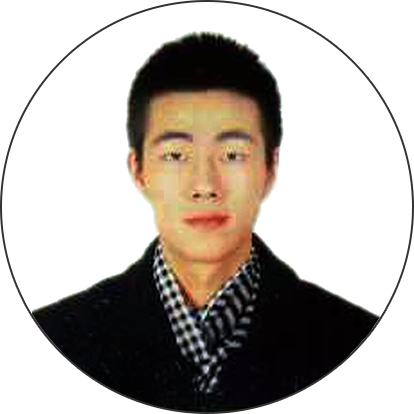
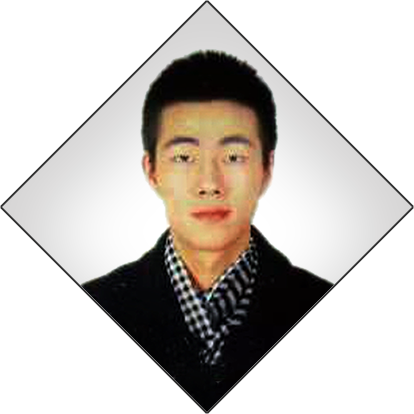
修改了 Grid 的背景；修改了隐藏模块的展示区

diff --git a/diamond/src/view/Resume.vue b/diamond/src/view/Resume.vue
@@ -17,8 +17,9 @@
           <li>兼通设计</li>
           <li>×</li>
           <li>紧抓基础</li>
-          <li>追求卓越，通过艺术性的角度思考代码</li>
+          <li>创新型前端工程师，可兼任简单的产品、设计、后端业务</li>
         </ul>
+        <div class="resume-content-1-hint" :class="startScreenHint">向下翻页，查看更多...</div>
       </article>
       <article class="resume-content-intersection"></article>
       <article class="resume-content-2">
@@ -146,21 +147,53 @@
       </article>
       <article class="resume-content-intersection"></article>
       <article class="resume-content-6">
-        <div></div>
-        <ul>
-          <li>张宇 Ary</li>
-          <li>中南大学 / 城市规划 / 2015</li>
-          <li>建筑设计经验两年 / 前端新人 / 基础牢固 / 创新</li>
-        </ul>
+        <div class="resume-content-6-presentation">
+          <div class="resume-content-6-detail">
+            <div class="resume-content-6-background"></div>
+            <div class="resume-content-6-text"></div>
+          </div>
+          <div class="resume-content-6-detail">
+            <div class="resume-content-6-background"></div>
+            <div class="resume-content-6-text"></div>
+          </div>
+          <div class="resume-content-6-detail">
+            <div class="resume-content-6-background"></div>
+            <div class="resume-content-6-text"></div>
+          </div>
+          <div class="resume-content-6-detail">
+            <div class="resume-content-6-background"></div>
+            <div class="resume-content-6-text"></div>
+          </div>
+          <div class="resume-content-6-detail">
+            <div class="resume-content-6-background"></div>
+            <div class="resume-content-6-text"></div>
+          </div>
+          <div class="resume-content-6-detail">
+            <div class="resume-content-6-background"></div>
+            <div class="resume-content-6-text"></div>
+          </div>
+          <div class="resume-content-6-detail">
+            <div class="resume-content-6-background"></div>
+            <div class="resume-content-6-text"></div>
+          </div>
+        </div>
+        <div class="resume-content-6-personal" :class="personalAnimationStart">
+          <div class="resume-content-image"></div>
+          <ul>
+            <li>张宇 Ary</li>
+            <li>中南大学 / 本科 / 城市规划 / 2015年毕业</li>
+            <li>两年设计行业经验 / 前端新人 / 熬夜达人 / 追求像素级精准</li>
+          </ul>
+        </div>
       </article>
       <article class="resume-content-intersection"></article>
       <article class="resume-content-7">
-        <div></div>
+        <div class="resume-content-image"></div>
         <ul>
           <li>电子邮箱：ary@arylab.me</li>
           <li>联系电话：+86 13187314217</li>
-          <li @click="$router.push('/article/blog')" @touchend="touchRedirectUrl('https://arylab.me/article/blog', $event)" title="点击进入我的技术博客 https://arylab.me/article/blog">技术博客：https://arylab.me/article/blog</li>
-          <li @click="redirectUrl('https://github.com/Winterwrath/Diamond')" @touchend="touchRedirectUrl('https://github.com/Winterwrath/Diamond', $event)" title="点击查看本项目源码 https://github.com/Winterwrath/Diamond">项目源码：https://github.com/Winterwrath/Diamond</li>
+          <li @click="$router.push('/article/blog')" @touchend="touchRedirectUrl('https://arylab.me/article/blog', $event)" title="点击进入我的技术博客 https://arylab.me/article/blog">技术博客：<span>https://arylab.me/article/blog</span></li>
+          <li @click="$router.push('/')" @touchend="touchRedirectUrl('https://arylab.me', $event)" title="点击进入我的个人主页 https://arylab.me">个人主页：<span>https://arylab.me</span></li>
         </ul>
       </article>
     </div>
@@ -170,9 +203,9 @@
         <li></li>
         <li @click="$router.push('/')" title="点击进入我的个人主页 https://arylab.me"></li>
         <li></li>
-        <li @click="scrollCurrent = 1" @touchstart="scrollCurrent = 1">技术水平</li>
+        <li @click="scrollCurrent = 1" @touchstart="scrollCurrent = 1">技术能力</li>
         <li></li>
-        <li @click="scrollCurrent = 6" @touchstart="scrollCurrent = 6">个人资料</li>
+        <li @click="scrollCurrent = 6" @touchstart="scrollCurrent = 6">作品展示</li>
         <li></li>
         <li @click="scrollCurrent = 7" @touchstart="scrollCurrent = 7">联系方式</li>
         <li></li>
@@ -201,7 +234,9 @@ export default {
     return {
       scrollCurrent: 1,
       scrollTimer: 0,
-      ScreenY: 0
+      ScreenY: 0,
+      personalAnimationStart: '',
+      startScreenHint: ''
     }
   },
   computed: {
@@ -302,6 +337,16 @@ export default {
     touchRedirectUrl (url, e) {
       if (Math.abs(e.changedTouches[0].screenY - this.ScreenY) < 10) {
         window.location = url
+      }
+    }
+  },
+  watch: {
+    scrollCurrent (val, oldval) {
+      if (val === 6) {
+        this.personalAnimationStart = 'resume-content-6-personal-now'
+      }
+      if (oldval === 1) {
+        this.startScreenHint = 'resume-content-1-hint-hide'
       }
     }
   },
@@ -441,6 +486,19 @@ export default {
     }
   }
 }
+.resume-content-1-hint {
+  position: absolute;
+  top: 90vh;
+  left: 50%;
+  margin-left: -8em;
+  width: 16em;
+  font-size: .8em;
+  text-align: center;
+  animation: text-flicker 1s ease infinite;
+}
+.resume-content-1-hint-hide {
+  display: none;
+}
 @media screen and (orientation:portrait) {
   .resume-content-1 {
     ul {
@@ -555,18 +613,52 @@ export default {
     }
   }
 }
-.resume-content-6 {
+article.resume-content-6 {
+  display: block;
+}
+.resume-content-6-presentation {
+  position: absolute;
+  box-sizing: border-box;
+  z-index: 1;
+  padding-top: 3em;
+  padding-bottom: 3em;
+  margin-left: -55%;
+  height: 100vh;
+  width: 500%;
+  opacity: 1;
+  background: rgba(255,220,220,.3);
+  transition: all 1s ease;
+  .resume-content-6-detail {
+    float: left;
+    height: 100%;
+    width: 14%;
+    background: #000;
+    .resume-content-6-background {
+
+    }
+    .resume-content-6-text {
+
+    }
+  }
+}
+.resume-content-6-personal {
+  display: flex;
+  flex-flow: row wrap;
+  z-index: 0;
+  height: 100%;
   justify-content: center;
+  align-items: center;
+  align-content: center;
   &>div {
     flex: 0 0 auto;
-    width: 7em;
-    height: 7em;
+    width: 7.5em;
+    height: 7.5em;
     background: url(../assets/resume/avatar.png);
     background-size: contain;
   }
   ul {
     flex: 0 0 auto;
-    margin-left: 2em;
+    margin-left: 1em;
     height: 8em;
     li {
       width: auto;
@@ -574,9 +666,6 @@ export default {
       line-height: 2em;
       font-size: 1em;
       font-weight: 700;
-      &:nth-child(3), &:nth-child(4) {
-        cursor: pointer;
-      }
       &:first-child {
         line-height: 2em;
         font-size: 2em;
@@ -584,12 +673,26 @@ export default {
     }
   }
 }
+.resume-content-6-personal-now {
+  animation: personal-scale 6s ease forwards;
+}
+@keyframes personal-scale {
+  0% {
+    transform: scale(1);
+  }
+  50% {
+    transform: scale(1);
+  }
+  100% {
+    transform: scale(.6);
+  }
+}
 @media screen and (orientation:portrait) {
-  .resume-content-6 {
+  .resume-content-6-personal {
     flex-flow: column wrap;
     justify-content: center;
     ul {
-      margin: 2em 0 0;
+      margin: .5em 0 0;
       width: 100%;
       li {
         width: 100%;
@@ -626,6 +729,9 @@ export default {
       font-weight: 700;
       &:nth-child(3), &:nth-child(4) {
         cursor: pointer;
+        span {
+          text-decoration: underline;
+        }
       }
     }
   }

diff --git a/diamond/src/components/grid/GridBackground.vue b/diamond/src/components/grid/GridBackground.vue
@@ -15,7 +15,8 @@ export default {
   right: 0;
   bottom: 0;
   z-index: -1;
-  background: url(../../../static/bg1.jpg);
+  background: url(../../assets/resume/x3.png), radial-gradient(#ccc, #000);
+  background-size: contain;
   animation: random-blink 2.5s steps(5) infinite;
 }
 </style>
